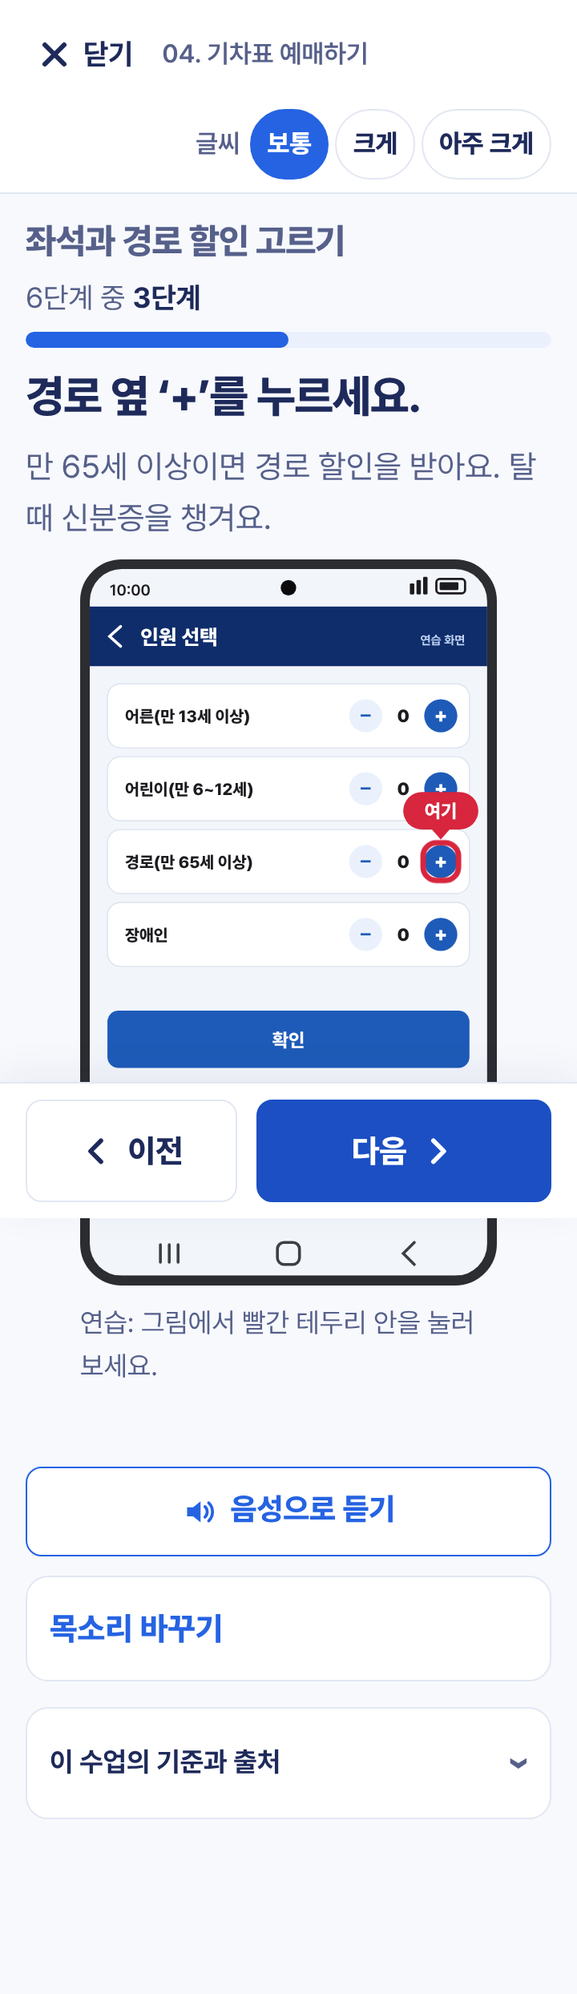
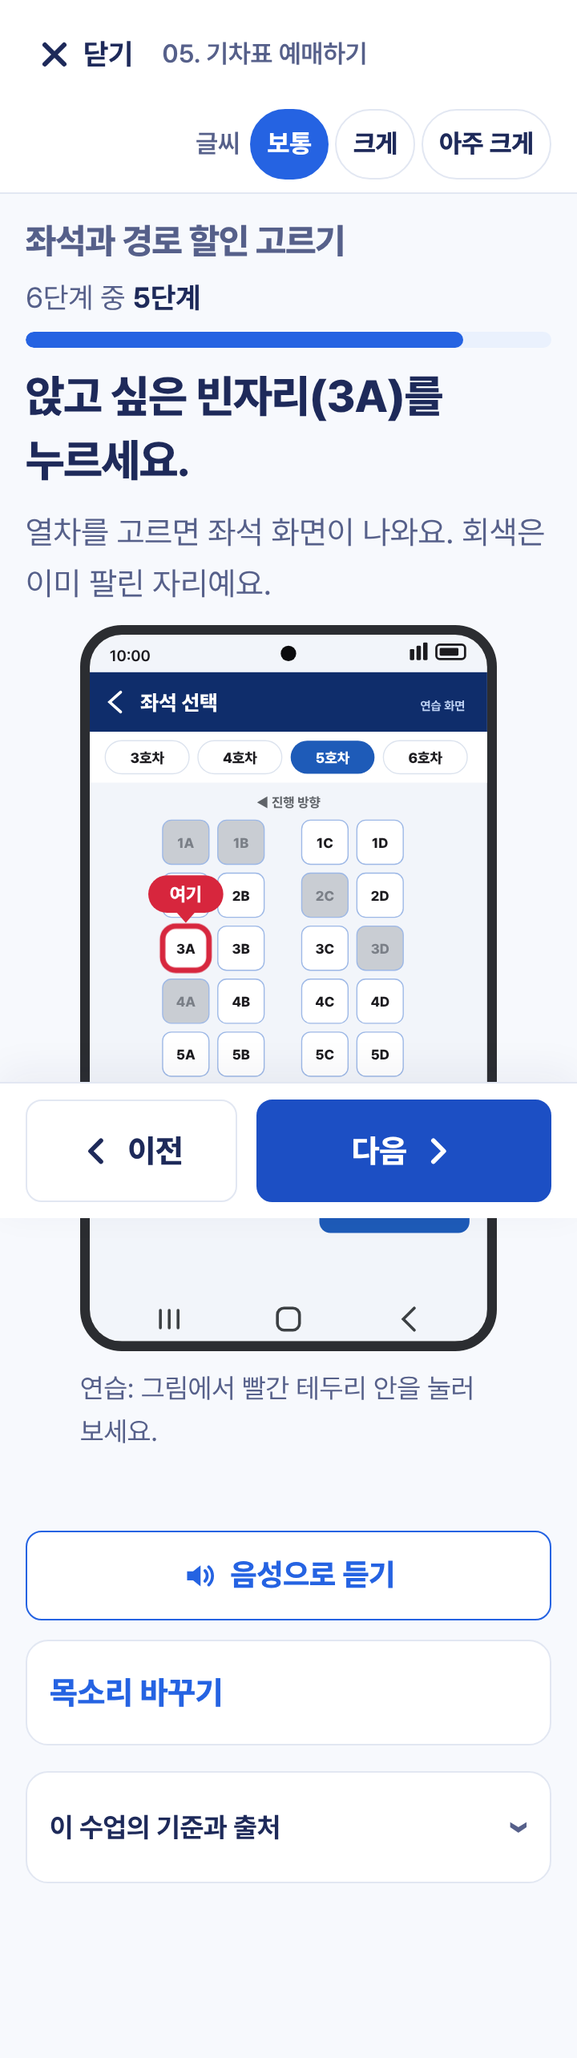
생활 디지털 연습장: 01 필수 앱 내려받기(9개 수업) 추가
- 새 구분 ‘필수 앱 준비’, 기존 목차 번호 1씩 뒤로(진행 기록은 수업 id라 유지)
- 꼭 필요한 앱, Play 스토어 검색·설치·열기, 진짜 앱 확인(개발자·다운로드 수), 카카오톡·카카오 T·코레일톡·공공 앱·은행/인증 앱 설치, 정리·업데이트

Claude-Session: https://claude.ai/code/session_01Q3BcEgi969WHnWAarB2Rma

diff --git a/data/digital/ch-apps.js b/data/digital/ch-apps.js
@@ -1,0 +1,86 @@
+/** [필수 앱 준비] 01 필수 앱 내려받기 — Play 스토어에서 진짜 앱을 찾아 설치하기 */
+import { app as openApp, obj } from '../galaxy/helpers.js?v=20261125.1131';
+import { L, T, S, LK, SRC, list, pop } from './kit.js?v=20261125.1131';
+
+const PLAY_SRC = { label: 'Google Play 고객센터(앱 설치)', url: 'https://support.google.com/googleplay/' };
+
+/** Play 스토어 화면(공통) */
+const PLAY_HOME = list('Google Play', [{ t: '추천 앱' }, { t: '인기 차트' }, { t: '카테고리' }], { searchBar: '앱 및 게임 검색', back: false, tabs: ['게임', '앱', '검색', '도서'], tab: '앱' });
+const RESULT = (name, dev, more = []) => list('검색 결과', [{ t: name, s: `${dev} · ★4.5`, btn: '설치' }, ...more]);
+const DETAIL = (name, dev, btn = '설치', note = '다운로드 1억 회 이상') => list(name, [{ t: name, s: dev, sBlue: true }, { t: '평점', v: '★4.5' }, { t: '다운로드', v: note }, { t: '앱 정보', s: '무엇을 하는 앱인지 읽어 보세요' }], { button: btn });
+
+/** 필수 앱 목록(용도) */
+const ESSENTIAL = list('꼭 필요한 앱', [
+  { t: '카카오톡', s: '가족·친구와 메시지·사진·영상통화' },
+  { t: '카카오 T', s: '택시 부르기' },
+  { t: '코레일톡', s: '기차표 예매' },
+  { t: '지도 앱', s: '길 찾기(Google 지도·네이버 지도·카카오맵)' },
+  { t: '내 은행 앱', s: '잔액 보기·이체(거래하는 은행 것만)' },
+  { t: '인증 앱', s: '본인 확인(통신사 PASS 등)' },
+  { t: '공공 앱', s: '정부24·건강보험 등' },
+]);
+
+/** 앱 하나 설치하는 카드 묶음: Play 스토어 → 검색창 → 이름 적기 → 결과에서 설치 → 열기 */
+const INSTALL = (name, dev, { hint } = {}) => [
+  openApp('Play 스토어'),
+  T('검색창', PLAY_HOME, '위쪽 검색창을 누르세요.'),
+  LK(`‘${name}’${obj(name)} 적으세요.`, { kind: 'keyboard', title: '앱 검색', text: name }, hint ?? '이름을 정확히 적어요. 말로 검색하려면 검색창의 마이크를 눌러요.'),
+  T(`${name} 설치`, RESULT(name, dev), `‘${name}’ 옆 ‘설치’를 누르세요.`, `개발자 이름(${dev})을 확인하세요.`),
+  T(`${name} 열기`, list(name, [{ t: name, s: '설치 완료', btn: '열기' }]), '설치가 끝나면 ‘열기’를 누르세요.', '홈 화면이나 앱스 화면에도 아이콘이 생겨요.'),
+];
+
+export const CHAPTERS_0 = [
+  { num: 1, group: 'apps', title: '필수 앱 내려받기', desc: 'Play 스토어에서 꼭 필요한 앱을 찾아 설치하기', lessons: [
+    L('d00-list', '꼭 필요한 앱 알아보기', ['필수 앱', '어떤 앱', '앱 추천', '꼭 필요한 앱'], [
+      LK('어르신께 꼭 필요한 앱을 살펴보세요.', ESSENTIAL, '한꺼번에 다 깔 필요는 없어요. 필요한 것부터 하나씩 설치해요.'),
+      S('앱은 Play 스토어에서만 내려받으세요.', '🛡', '문자·전화로 알려 준 링크나 파일로 설치하지 마세요.'),
+      S('설치에는 Google 계정과 와이파이가 있으면 편해요.', '📶', '데이터를 아끼려면 와이파이에서 설치해요.'),
+    ], [PLAY_SRC, SRC.kisa]),
+    L('d00-search', 'Play 스토어에서 앱 찾기', ['Play 스토어', '앱 찾기', '앱 검색', '플레이 스토어'], [
+      openApp('Play 스토어', { hint: '흰 바탕에 색 삼각형 아이콘이에요. 홈 화면에 없으면 위로 밀어 앱스 화면에서 찾아요.' }),
+      T('검색창', PLAY_HOME, '위쪽 ‘앱 및 게임 검색’ 칸을 누르세요.'),
+      LK('찾을 앱 이름을 적으세요.', { kind: 'keyboard', title: '앱 검색', text: '카카오톡' }, '예: 카카오톡, 코레일톡, 정부24'),
+      LK('검색 결과에서 앱 이름과 개발자를 보세요.', RESULT('카카오톡', 'Kakao Corp.', [{ t: '카카오톡 테마 모음', s: '광고 앱 · ★3.1' }]), '비슷한 이름의 다른 앱도 나와요. 맨 위 광고는 조심해요.'),
+    ], [PLAY_SRC]),
+    L('d00-install', '앱 설치하고 열기', ['앱 설치', '앱 깔기', '다운로드', '앱 받기'], [
+      T('카카오톡', RESULT('카카오톡', 'Kakao Corp.'), '설치할 앱 이름(카카오톡)을 누르세요.', '앱을 누르면 자세한 정보가 나와요.'),
+      T('설치', DETAIL('카카오톡', 'Kakao Corp.'), '초록 ‘설치’ 버튼을 누르세요.'),
+      LK('설치가 끝날 때까지 기다리세요.', DETAIL('카카오톡', 'Kakao Corp.', '설치 중… 45%'), '와이파이에서 하면 데이터가 들지 않아요.'),
+      T('열기', DETAIL('카카오톡', 'Kakao Corp.', '열기'), '‘열기’를 누르세요.', '처음 열면 전화번호 인증 같은 안내가 나와요.'),
+    ], [PLAY_SRC]),
+    L('d00-real', '진짜 앱인지 확인하기', ['가짜 앱', '진짜 앱', '개발자 확인', '사기 앱'], [
+      LK('앱 이름 아래 개발자(만든 곳) 이름을 보세요.', DETAIL('카카오톡', 'Kakao Corp.'), '은행·기관 앱은 그 은행·기관 이름이 개발자로 적혀 있어요.'),
+      LK('다운로드 수와 평점을 보세요.', DETAIL('카카오톡', 'Kakao Corp.'), '진짜 앱은 보통 다운로드가 아주 많아요.'),
+      S('이름이 비슷해도 개발자가 다르면 설치하지 마세요.', '⚠', '예: ‘○○은행 공식’처럼 보여도 개발자 이름이 이상하면 가짜일 수 있어요.'),
+      S('모르면 가족이나 은행·주민센터에 물어보세요.', '🙋', '전화로 앱을 깔라고 하면 사기일 수 있어요.'),
+    ], [PLAY_SRC, SRC.kisa, SRC.fss]),
+    L('d00-kakao', '카카오톡 설치하기', ['카카오톡 설치', '카톡 깔기'], [
+      ...INSTALL('카카오톡', 'Kakao Corp.'),
+      S('화면 안내에 따라 내 전화번호로 가입하세요.', 'K', '문자로 온 인증번호를 넣어요. 자세한 내용은 갤럭시 수업 13을 보세요.'),
+    ], [PLAY_SRC, { label: '카카오 고객센터', url: 'https://cs.kakao.com/', unverified: true }]),
+    L('d00-move', '카카오 T·코레일톡 설치하기', ['카카오 T 설치', '코레일톡 설치', '택시 앱 설치', '기차 앱 설치'], [
+      ...INSTALL('카카오 T', 'Kakao Mobility', { hint: '‘카카오T’ 또는 ‘카카오택시’로 찾아도 나와요.' }),
+      T('검색창', PLAY_HOME, '이어서 코레일톡을 설치해요. 검색창을 누르세요.'),
+      LK('‘코레일톡’을 적으세요.', { kind: 'keyboard', title: '앱 검색', text: '코레일톡' }, '개발자가 한국철도공사인지 확인해요.'),
+      T('코레일톡 설치', RESULT('코레일톡', '한국철도공사'), '‘코레일톡’ 옆 ‘설치’를 누르세요.'),
+    ], [PLAY_SRC, SRC.korail], { check: '카카오 T·코레일톡의 Play 스토어 개발자 표기는 실제 화면과 대조 필요' }),
+    L('d00-public', '공공 앱 설치하기', ['정부24', '건강보험 앱', '공공 앱', '모바일 신분증 앱'], [
+      LK('어르신이 자주 쓰는 공공 앱을 보세요.', list('공공 앱', [{ t: '정부24', s: '민원 서류 떼기' }, { t: '건강보험 앱', s: '병원 기록·검진 결과' }, { t: '모바일 신분증', s: '휴대폰 신분증(지원 기종)' }]), '필요한 것만 설치해요.'),
+      ...INSTALL('정부24', '정부 기관', { hint: '개발자가 정부 기관인지 확인해요.' }),
+      S('건강보험 앱도 같은 방법으로 찾아 설치하세요.', '🏥', '개발자가 국민건강보험공단인지 확인해요.'),
+    ], [PLAY_SRC, SRC.gov, SRC.nhis], { check: '공공 앱의 정확한 앱 이름과 개발자 표기는 실제 Play 스토어 화면과 대조 필요' }),
+    L('d00-bank', '은행 앱과 인증 앱 설치하기', ['은행 앱 설치', 'PASS', '인증 앱', '뱅킹 앱'], [
+      S('거래하는 은행의 공식 앱만 설치하세요.', '🏦', '통장이나 은행 누리집에 적힌 앱 이름을 확인해요.'),
+      T('검색창', PLAY_HOME, 'Play 스토어 검색창을 누르세요.'),
+      LK('은행 이름을 적으세요.', { kind: 'keyboard', title: '앱 검색', text: '○○은행' }, '예: 내가 쓰는 은행 이름'),
+      LK('개발자가 그 은행인지 꼭 확인하세요.', RESULT('○○은행 뱅킹', '○○은행', [{ t: '○○은행 빠른대출', s: '개인 개발자 · ★2.0' }]), '비슷한 이름의 대출·광고 앱은 설치하지 마세요.'),
+      S('본인 확인 앱(PASS)은 내 통신사 것을 설치하세요.', '🔐', '통신사(SKT·KT·LG U+) 이름이 개발자인지 확인해요.'),
+    ], [PLAY_SRC, SRC.fss, SRC.kfb], { caution: '은행·인증 앱은 개인정보와 돈을 다루는 앱이에요. 반드시 공식 앱인지 확인하고 설치하세요.' }),
+    L('d00-arrange', '설치한 앱 정리하고 업데이트하기', ['앱 정리', '앱 업데이트', '앱 폴더'], [
+      S('자주 쓰는 앱은 홈 화면 첫 페이지에 두세요.', '▦', '앱스 화면에서 앱을 길게 누르고 ‘홈 화면에 추가’를 눌러요(갤럭시 수업 12).'),
+      openApp('Play 스토어'),
+      T('내 앱', list('Google Play', [{ t: '내 앱' }, { t: '추천 앱' }], { back: false, searchBar: '앱 및 게임 검색' }), '‘내 앱’을 누르세요.', '오른쪽 위 내 계정 그림 → ‘앱 및 기기 관리’에서 볼 수도 있어요.'),
+      T('모두 업데이트', list('업데이트', [{ t: '카카오톡', s: '업데이트 가능' }, { t: '코레일톡', s: '업데이트 가능' }], { button: '모두 업데이트' }), '‘모두 업데이트’를 누르세요.', '와이파이에서 하면 좋아요.'),
+    ], [PLAY_SRC], { check: 'Play 스토어의 업데이트 메뉴 위치는 버전에 따라 달라 실제 화면 확인 필요' }),
+  ] },
+];

diff --git a/data/digital/ch01-07.js b/data/digital/ch01-07.js
@@ -1,6 +1,6 @@
 /** [가게와 식당] 01~03, [교통과 이동] 04~07 */
-import { app as openApp } from '../galaxy/helpers.js?v=20261125.0951';
-import { L, T, S, LK, SRC, app, list, tiles, pad, sheet, pop, kb, seats, swipe, kiosk, receipt, kioskPay } from './kit.js?v=20261125.0951';
+import { app as openApp } from '../galaxy/helpers.js?v=20261125.1131';
+import { L, T, S, LK, SRC, app, list, tiles, pad, sheet, pop, kb, seats, swipe, kiosk, receipt, kioskPay } from './kit.js?v=20261125.1131';
 
 /* ---------- 01 키오스크 ---------- */
 const K_HOME = app('주문하기', { hero: '어서 오세요! 화면을 눌러 주문하세요', heroColor: '#2563E2', buttons: ['매장에서 먹기', '포장하기'] });
@@ -78,7 +78,7 @@ const STOP = list('정류장 · 시청앞', [{ t: '402번', s: '3분 뒤 도착 
 const SUBWAY = list('지하철 길 찾기', [{ t: '출발', v: '시청' }, { t: '도착', v: '강남' }, { t: '빠른 길', s: '32분 · 환승 1번(교대역)' }, { t: '막차 시간', v: '23:52' }], { button: '경로 보기' });
 
 export const CHAPTERS_1 = [
-  { num: 1, group: 'shop', title: '키오스크로 음식 주문하기', desc: '패스트푸드점·분식집 주문 기계', lessons: [
+  { num: 2, group: 'shop', title: '키오스크로 음식 주문하기', desc: '패스트푸드점·분식집 주문 기계', lessons: [
     L('d01-start', '처음 화면에서 매장·포장 고르기', ['키오스크', '무인 주문', '햄버거 주문'], [
       LK('키오스크 첫 화면을 보세요.', K_HOME, '큰 화면에 ‘매장에서 먹기’와 ‘포장하기’가 있어요. 천천히 눌러도 괜찮아요.'),
       T('매장에서 먹기', K_HOME, '가게에서 먹으려면 ‘매장에서 먹기’를 누르세요.', '가져가려면 ‘포장하기’를 눌러요.'),
@@ -121,7 +121,7 @@ export const CHAPTERS_1 = [
       ...KIOSK_PAY('6,800원', '124'),
     ], [SRC.nia], { caution: '실제로 돈이 나가는 일이에요. 먼저 연습 화면으로 끝까지 해 보세요.' }),
   ] },
-  { num: 2, group: 'shop', title: '카페 주문과 테이블 QR 주문', desc: '카페 키오스크, 식탁의 QR코드 주문', lessons: [
+  { num: 3, group: 'shop', title: '카페 주문과 테이블 QR 주문', desc: '카페 키오스크, 식탁의 QR코드 주문', lessons: [
     L('d02-cafe', '카페 키오스크로 음료 주문하기', ['카페 주문', '커피 주문'], [
       T('아메리카노', C_MENU(), '마실 음료(아메리카노)를 누르세요.'),
       T('담기', C_OPT, '‘담기’를 누르세요.', '옵션은 다음 수업에서 바꿔 봐요.'),
@@ -155,7 +155,7 @@ export const CHAPTERS_1 = [
       ...QR_PAY('7,000원'),
     ]),
   ] },
-  { num: 3, group: 'shop', title: '무인 계산대와 셀프 서비스', desc: '마트 셀프 계산대, 무인 가게', lessons: [
+  { num: 4, group: 'shop', title: '무인 계산대와 셀프 서비스', desc: '마트 셀프 계산대, 무인 가게', lessons: [
     L('d03-scan', '바코드 찍어 물건 담기', ['셀프 계산대', '바코드', '무인 계산', '무인 매장'], [
       LK('셀프 계산대를 살펴보세요.', SC_HOME, '위는 화면, 가운데 빨간 불빛이 바코드 찍는 곳, 왼쪽이 봉투 놓는 곳이에요.'),
       T('상품 바코드', SC_HOME, '물건에서 줄무늬 바코드를 찾아 누르세요.', '바코드는 보통 상자 옆면이나 바닥에 있어요.'),
@@ -185,7 +185,7 @@ export const CHAPTERS_1 = [
       S('직원이 올 때까지 기다리세요.', '🙋', '계산대 위 불빛이 깜빡이면 직원이 와요.'),
     ]),
   ] },
-  { num: 4, group: 'move', title: '기차표 예매하기', desc: '코레일톡 앱으로 기차표 예매(연습 화면)', lessons: [
+  { num: 5, group: 'move', title: '기차표 예매하기', desc: '코레일톡 앱으로 기차표 예매(연습 화면)', lessons: [
     L('d04-search', '출발역·도착역과 날짜 고르기', ['기차표', 'KTX', '열차 예매', '기차 예매', '코레일', '코레일톡'], [
       openApp('코레일톡', { hint: '코레일톡은 한국철도공사의 기차표 예매 앱이에요. 없으면 Play 스토어에서 ‘코레일톡’을 찾아 설치해요.' }),
       T('출발역', KR('home'), '‘출발’ 아래 역 이름(서울)을 누르세요.'),
@@ -224,7 +224,7 @@ export const CHAPTERS_1 = [
       T('반환하기', pop('승차권 반환', '반환 수수료를 확인했어요.', ['닫기', '반환하기']), '‘반환하기’를 누르세요.', '누르기 전에 수수료를 확인하세요.'),
     ], [SRC.korail], KR_INFO),
   ] },
-  { num: 5, group: 'move', title: '고속·시외버스 예매하기', desc: '버스 예매 앱과 터미널 무인 발권기', lessons: [
+  { num: 6, group: 'move', title: '고속·시외버스 예매하기', desc: '버스 예매 앱과 터미널 무인 발권기', lessons: [
     L('d05-search', '터미널과 날짜 고르기', ['고속버스', '시외버스', '버스 예매'], [
       T('출발 터미널', BUS_HOME, '‘출발 터미널’을 누르세요.'),
       T('도착 터미널', BUS_HOME, '‘도착 터미널’을 누르세요.'),
@@ -252,7 +252,7 @@ export const CHAPTERS_1 = [
       T('12월 5일 10:00 대전복합 취소하기', list('예매 내역', [{ t: '12월 5일 10:00 대전복합', s: '4A · 15,200원', btn: '취소하기' }]), '취소할 표 옆 ‘취소하기’를 누르세요.', '출발 시간에 가까우면 수수료가 있어요.'),
     ], [SRC.kobus, SRC.txbus]),
   ] },
-  { num: 6, group: 'move', title: '택시 부르기', desc: '카카오 T로 택시 부르기(연습 화면)', lessons: [
+  { num: 7, group: 'move', title: '택시 부르기', desc: '카카오 T로 택시 부르기(연습 화면)', lessons: [
     L('d06-where', '출발지와 목적지 넣기', ['택시', '택시 부르기', '카카오택시', '카카오 T', '택시 앱'], [
       openApp('카카오 T', { hint: '카카오택시는 ‘카카오 T’ 앱에서 불러요. 없으면 Play 스토어에서 ‘카카오 T’를 찾아 설치해요.' }),
       T('택시', KT('home'), '‘택시’를 누르세요.'),
@@ -284,7 +284,7 @@ export const CHAPTERS_1 = [
       S('콜택시 전화번호를 연락처에 저장해 두세요.', '☎', '앱이 어려우면 전화로 불러도 돼요.'),
     ], [KAKAO_T_SRC], KT_INFO),
   ] },
-  { num: 7, group: 'move', title: '버스·지하철 정보 보기', desc: '도착 정보, 길 찾기, 교통카드 잔액', lessons: [
+  { num: 8, group: 'move', title: '버스·지하철 정보 보기', desc: '도착 정보, 길 찾기, 교통카드 잔액', lessons: [
     L('d07-arrive', '버스 도착 시간 보기', ['버스 도착', '정류장', '버스 언제 와'], [
       T('검색창', STOP, '위쪽 검색 칸을 누르세요.'),
       S('정류장 이름이나 버스 번호를 적으세요.', '⌨', '예: 시청앞, 402'),

diff --git a/data/digital/ch08-14.js b/data/digital/ch08-14.js
@@ -1,5 +1,5 @@
 /** [병원과 건강] 08~10, [은행과 돈] 11~14 */
-import { L, T, S, LK, SRC, app, list, tiles, pad, sheet, pop, kb, kiosk, kioskPay } from './kit.js?v=20261125.0951';
+import { L, T, S, LK, SRC, app, list, tiles, pad, sheet, pop, kb, kiosk, kioskPay } from './kit.js?v=20261125.1131';
 
 const MONEY = '실제로 돈이 오가는 일이에요. 먼저 연습 화면으로 끝까지 해 보세요. 연습 화면에서는 돈이 나가지 않아요.';
 
@@ -32,7 +32,7 @@ const PAYAPP = app('간편결제(연습)', { hero: '결제 바코드', heroName:
 const FAKE_SMS = { kind: 'chat', title: '010-0000-9999', bubbles: [{ from: 'you', text: '[국외발신] 엄마 나 폰 고장나서 이 번호로 연락해' }, { from: 'you', text: '급하게 돈 좀 보내줘' }] };
 
 export const CHAPTERS_2 = [
-  { num: 8, group: 'health', title: '병원 예약과 접수', desc: '병원 예약 앱, 병원 무인 접수기', lessons: [
+  { num: 9, group: 'health', title: '병원 예약과 접수', desc: '병원 예약 앱, 병원 무인 접수기', lessons: [
     L('d08-find', '가까운 병원 찾기', ['병원 찾기', '진료 시간', '근처 병원'], [
       T('검색창', H_FIND, '위쪽 검색 칸을 누르세요.'),
       S('진료과나 병원 이름을 적으세요.', '⌨', '예: 내과, 정형외과'),
@@ -62,7 +62,7 @@ export const CHAPTERS_2 = [
       T('처방전 출력', H_PAY, '약국에 갈 처방전은 ‘처방전 출력’을 누르세요.'),
     ], [SRC.hira]),
   ] },
-  { num: 9, group: 'health', title: '약과 건강 관리', desc: '복약 알림, 처방전, 건강 기록', lessons: [
+  { num: 10, group: 'health', title: '약과 건강 관리', desc: '복약 알림, 처방전, 건강 기록', lessons: [
     L('d09-alarm', '약 먹을 시간 알림 맞추기', ['복약 알림', '약 알림', '약 먹을 시간'], [
       T('추가', PILL, '오른쪽 아래 ‘+’를 누르세요.'),
       S('약 이름을 적으세요.', '💊', '예: 혈압약'),
@@ -91,7 +91,7 @@ export const CHAPTERS_2 = [
       S('급하거나 많이 아프면 병원에 직접 가거나 119에 전화하세요.', '🚑', '비대면 진료는 가벼운 경우에만 써요.'),
     ], [SRC.hira]),
   ] },
-  { num: 10, group: 'health', title: '건강보험과 의료 정보', desc: '공공 건강보험 앱의 공통 기능', lessons: [
+  { num: 11, group: 'health', title: '건강보험과 의료 정보', desc: '공공 건강보험 앱의 공통 기능', lessons: [
     L('d10-login', '간편 인증으로 로그인하기', ['건강보험 로그인', '간편 인증'], [
       T('간편 인증 로그인', NH_HOME, '‘간편 인증 로그인’을 누르세요.'),
       T('통신사 인증', sheet('인증 방법', ['통신사 인증', '금융 인증서', '모바일 신분증']), '쓰는 인증 방법(통신사 인증)을 누르세요.'),
@@ -111,7 +111,7 @@ export const CHAPTERS_2 = [
       S('발급된 서류를 저장하거나 보내세요.', '📄', '휴대폰 ‘내 파일’에 저장돼요.'),
     ], [SRC.nhis]),
   ] },
-  { num: 11, group: 'money', title: '모바일 뱅킹 시작하기', desc: '은행 앱 첫 설정(연습 화면)', lessons: [
+  { num: 12, group: 'money', title: '모바일 뱅킹 시작하기', desc: '은행 앱 첫 설정(연습 화면)', lessons: [
     L('d11-what', '은행 앱으로 할 수 있는 일', ['은행 앱', '모바일 뱅킹'], [
       LK('은행 앱 첫 화면을 보세요.', BANK, '잔액 보기, 돈 보내기(이체), 거래 내역을 볼 수 있어요.'),
       S('은행 앱은 은행 공식 앱만 설치하세요.', '🏦', '문자로 온 링크로 설치하지 마세요.'),
@@ -134,7 +134,7 @@ export const CHAPTERS_2 = [
       S('공공장소에서는 은행 앱을 열어 두지 마세요.', '🔒', '휴대폰 화면 잠금도 꼭 해 두세요.'),
     ], [SRC.kfb]),
   ] },
-  { num: 12, group: 'money', title: '계좌 이체 연습하기', desc: '돈 보내기를 연습 화면에서', lessons: [
+  { num: 13, group: 'money', title: '계좌 이체 연습하기', desc: '돈 보내기를 연습 화면에서', lessons: [
     L('d12-account', '받는 사람 계좌 넣기', ['계좌이체', '송금', '돈 보내기'], [
       T('이체', BANK, '‘이체’를 누르세요.'),
       T('받는 은행', TRANSFER, '‘받는 은행’을 누르세요.'),
@@ -167,7 +167,7 @@ export const CHAPTERS_2 = [
       S('사기 피해라면 112에 바로 신고하세요.', '🚨', '계좌 지급 정지를 요청할 수 있어요.'),
     ], [SRC.fss, SRC.scam]),
   ] },
-  { num: 13, group: 'money', title: '간편결제와 QR 결제', desc: '휴대폰으로 가게에서 결제하기', lessons: [
+  { num: 14, group: 'money', title: '간편결제와 QR 결제', desc: '휴대폰으로 가게에서 결제하기', lessons: [
     L('d13-what', '간편결제가 무엇인지 알아보기', ['간편결제', '페이', '휴대폰 결제'], [
       S('간편결제는 휴대폰에 카드를 넣어 두고 결제하는 방법이에요.', '📱', '삼성 월렛, 은행·카드사 앱 등 여러 가지가 있어요.'),
       S('결제할 때 지문이나 비밀번호로 확인해요.', '🔐', '남에게 휴대폰을 맡기지 마세요.'),
@@ -187,7 +187,7 @@ export const CHAPTERS_2 = [
       LK('결제한 곳과 금액을 보세요.', list('결제 내역', [{ t: '12/03 □□분식', v: '8,000원' }, { t: '12/02 편의점', v: '4,700원' }]), '모르는 결제가 있으면 카드사에 전화하세요.'),
     ], [SRC.fss]),
   ] },
-  { num: 14, group: 'money', title: '금융 사기 막기', desc: '보이스피싱·스미싱·가짜 앱', lessons: [
+  { num: 15, group: 'money', title: '금융 사기 막기', desc: '보이스피싱·스미싱·가짜 앱', lessons: [
     L('d14-voice', '보이스피싱 전화 알아차리기', ['보이스피싱', '사기 전화', '검찰 사칭'], [
       S('검찰·경찰·은행은 전화로 돈을 옮기라고 하지 않아요.', '☎', '“계좌가 범죄에 쓰였다”는 말은 사기예요.'),
       S('이상한 전화는 바로 끊으세요.', '✂', '상대가 겁을 주어도 끊어도 괜찮아요.'),

diff --git a/data/digital/ch15-20.js b/data/digital/ch15-20.js
@@ -1,5 +1,5 @@
 /** [관공서와 생활 서비스] 15~17, [쇼핑과 여가] 18~20 */
-import { L, T, S, LK, SRC, app, list, tiles, pad, sheet, pop, kb, seats } from './kit.js?v=20261125.0951';
+import { L, T, S, LK, SRC, app, list, tiles, pad, sheet, pop, kb, seats } from './kit.js?v=20261125.1131';
 
 const MONEY = '실제로 돈이 오가는 일이에요. 먼저 연습 화면으로 끝까지 해 보세요. 연습 화면에서는 돈이 나가지 않아요.';
 
@@ -38,7 +38,7 @@ const MSEAT = seats('좌석 선택 · 3관', { cols: ['A', 'B', 'C', 'D', 'E'], 
 const LIB = list('도서관(연습)', [{ t: '할머니의 정원', s: '대출 가능 · 2층 문학', btn: '예약' }, { t: '건강한 밥상', s: '대출 중 · 반납 예정 12/10', btn: '예약' }], { searchBar: '책 이름 검색', back: false });
 
 export const CHAPTERS_3 = [
-  { num: 15, group: 'public', title: '민원 서류 떼기', desc: '정부 민원 서비스와 무인 민원발급기', lessons: [
+  { num: 16, group: 'public', title: '민원 서류 떼기', desc: '정부 민원 서비스와 무인 민원발급기', lessons: [
     L('d15-online', '휴대폰으로 민원 서류 신청하기', ['주민등록등본', '민원 서류', '등본 떼기'], [
       T('주민등록표 등본', GOV, '필요한 서류(주민등록표 등본)를 누르세요.'),
       T('신청하기', GOV_APPLY, '‘신청하기’를 누르세요.', '누르기 전에 발급 형태를 확인하세요. 로그인(간편 인증)이 필요해요.'),
@@ -59,7 +59,7 @@ export const CHAPTERS_3 = [
       S('보낼 곳에 파일을 첨부해 보내세요.', '📎', '개인정보가 담긴 서류는 꼭 필요한 곳에만 보내세요.'),
     ], [SRC.gov]),
   ] },
-  { num: 16, group: 'public', title: '공과금과 생활 요금 내기', desc: '전기·가스·수도 요금, 관리비', lessons: [
+  { num: 17, group: 'public', title: '공과금과 생활 요금 내기', desc: '전기·가스·수도 요금, 관리비', lessons: [
     L('d16-bill', '모바일 고지서 확인하기', ['고지서', '공과금', '전기 요금'], [
       LK('이번 달 요금을 확인하세요.', BILL, '납부 기한을 꼭 확인해요.'),
       T('전기 요금', BILL, '자세히 볼 요금(전기 요금)을 누르세요.'),
@@ -78,7 +78,7 @@ export const CHAPTERS_3 = [
       LK('항목별 금액을 보세요.', list('관리비', [{ t: '일반 관리비', v: '62,000원' }, { t: '전기', v: '38,000원' }, { t: '난방', v: '82,000원' }], { top: '12월 합계 182,000원' }), '궁금한 항목은 관리사무소에 물어보세요.'),
     ], [SRC.giro]),
   ] },
-  { num: 17, group: 'public', title: '복지 혜택 찾아보기', desc: '어르신이 받을 수 있는 혜택 찾기', lessons: [
+  { num: 18, group: 'public', title: '복지 혜택 찾아보기', desc: '어르신이 받을 수 있는 혜택 찾기', lessons: [
     L('d17-find', '나에게 맞는 복지 서비스 찾기', ['복지', '혜택', '지원금'], [
       LK('내 나이와 사는 곳이 맞는지 보세요.', WELFARE),
       T('맞춤 서비스 찾기', WELFARE, '‘맞춤 서비스 찾기’를 누르세요.'),
@@ -98,7 +98,7 @@ export const CHAPTERS_3 = [
       S('복지 상담은 보건복지상담센터 129로도 할 수 있어요.', '☎', '국번 없이 129예요.'),
     ], [SRC.bokjiro]),
   ] },
-  { num: 18, group: 'leisure', title: '배달 앱으로 음식 시키기', desc: '배달 앱의 공통 순서', lessons: [
+  { num: 19, group: 'leisure', title: '배달 앱으로 음식 시키기', desc: '배달 앱의 공통 순서', lessons: [
     L('d18-address', '배달 받을 주소 넣기', ['배달', '배달 주소', '주소 등록'], [
       T('배달 주소', list('주소 설정', [{ t: '배달 주소', v: '입력' }, { t: '현재 위치로 찾기' }]), '‘배달 주소’를 누르세요.'),
       S('도로명 주소와 동·호수를 적으세요.', '🏠', '공동현관 비밀번호는 꼭 필요할 때만 적어요.'),
@@ -126,7 +126,7 @@ export const CHAPTERS_3 = [
       T('가게에 전화', app('주문 현황', { hero: '배달 중 · 10분 뒤 도착', heroColor: '#007A4B', buttons: ['가게에 전화', '고객센터 문의'] }), '늦거나 잘못 오면 ‘가게에 전화’를 누르세요.'),
     ], [SRC.kca]),
   ] },
-  { num: 19, group: 'leisure', title: '온라인 쇼핑하기', desc: '물건 찾기부터 반품까지', lessons: [
+  { num: 20, group: 'leisure', title: '온라인 쇼핑하기', desc: '물건 찾기부터 반품까지', lessons: [
     L('d19-search', '물건 검색하고 비교하기', ['쇼핑', '인터넷 쇼핑', '물건 찾기'], [
       T('검색창', SHOP, '위쪽 검색 칸을 누르세요.'),
       S('살 물건 이름을 적으세요.', '⌨', '예: 보온 물병'),
@@ -159,7 +159,7 @@ export const CHAPTERS_3 = [
       S('피해가 생기면 한국소비자원(1372)에 상담하세요.', '☎', '국번 없이 1372예요.'),
     ], [SRC.kca, SRC.ftc]),
   ] },
-  { num: 20, group: 'leisure', title: '영화·공연 예매와 여가', desc: '예매 앱, 무인 발권기, 도서관', lessons: [
+  { num: 21, group: 'leisure', title: '영화·공연 예매와 여가', desc: '예매 앱, 무인 발권기, 도서관', lessons: [
     L('d20-movie', '영화 시간과 좌석 예매하기', ['영화 예매', '영화표'], [
       T('영화', MOVIE, '‘영화’를 눌러 볼 영화를 고르세요.'),
       T('시간', MOVIE, '‘시간’을 눌러 상영 시간을 고르세요.'),

diff --git a/assets/app.js b/assets/app.js
@@ -12,14 +12,14 @@
  *
  * 진행 상황과 글씨 크기는 이 기기의 localStorage 에만 저장한다(서버로 보내지 않음).
  */
-import { CATEGORIES } from '../data/categories.js?v=20261125.0951';
-import { CHAPTERS, GROUPS, findLesson as findGalaxyLesson, allLessons } from '../data/galaxy/index.js?v=20261125.0951';
-import * as DIGITAL from '../data/digital/index.js?v=20261125.0951';
-import { BASE } from '../data/galaxy/helpers.js?v=20261125.0951';
-import { renderScreen } from './screens.js?v=20261125.0951';
-import { appInfo, appIconStandalone } from './apps.js?v=20261125.0951';
-import { speechText, stepWords, pickVoice, koreanVoices, voiceLabel, SPEECH } from './speech.js?v=20261125.0951';
-import { VERSION } from './version.js?v=20261125.0951';
+import { CATEGORIES } from '../data/categories.js?v=20261125.1131';
+import { CHAPTERS, GROUPS, findLesson as findGalaxyLesson, allLessons } from '../data/galaxy/index.js?v=20261125.1131';
+import * as DIGITAL from '../data/digital/index.js?v=20261125.1131';
+import { BASE } from '../data/galaxy/helpers.js?v=20261125.1131';
+import { renderScreen } from './screens.js?v=20261125.1131';
+import { appInfo, appIconStandalone } from './apps.js?v=20261125.1131';
+import { speechText, stepWords, pickVoice, koreanVoices, voiceLabel, SPEECH } from './speech.js?v=20261125.1131';
+import { VERSION } from './version.js?v=20261125.1131';
 
 const STORE_KEY = 'dojeon365.galaxy.v1';
 // 목차 구분별 분야 색(디자인 시스템): 기초 파랑, 생활 초록, 응용 보라, 고급 및 문제 해결 남색

diff --git a/data/digital/index.js b/data/digital/index.js
@@ -7,9 +7,10 @@
  * - 세부 수업의 카드(cards)는 갤럭시 수업과 같은 형식이다(ch01-07.js, ch08-14.js, ch15-20.js). cards 가 없으면 ‘준비 중’으로 보인다.
  */
 
-import { CHAPTERS_1 } from './ch01-07.js?v=20261125.0951';
-import { CHAPTERS_2 } from './ch08-14.js?v=20261125.0951';
-import { CHAPTERS_3 } from './ch15-20.js?v=20261125.0951';
+import { CHAPTERS_0 } from './ch-apps.js?v=20261125.1131';
+import { CHAPTERS_1 } from './ch01-07.js?v=20261125.1131';
+import { CHAPTERS_2 } from './ch08-14.js?v=20261125.1131';
+import { CHAPTERS_3 } from './ch15-20.js?v=20261125.1131';
 
 export const COURSE = {
   id: 'digital',
@@ -19,6 +20,7 @@ export const COURSE = {
 };
 
 export const GROUPS = [
+  { id: 'apps', title: '필수 앱 준비', cat: 'cat-2' },
   { id: 'shop', title: '가게와 식당', cat: 'cat-1' },
   { id: 'move', title: '교통과 이동', cat: 'cat-3' },
   { id: 'health', title: '병원과 건강', cat: 'cat-2' },
@@ -27,7 +29,7 @@ export const GROUPS = [
   { id: 'leisure', title: '쇼핑과 여가', cat: 'cat-3' },
 ];
 
-export const CHAPTERS = [...CHAPTERS_1, ...CHAPTERS_2, ...CHAPTERS_3].sort((a, b) => a.num - b.num);
+export const CHAPTERS = [...CHAPTERS_0, ...CHAPTERS_1, ...CHAPTERS_2, ...CHAPTERS_3].sort((a, b) => a.num - b.num);
 
 export function allLessons() {
   return CHAPTERS.flatMap((chapter) => chapter.lessons.map((lesson) => ({ lesson, chapter })));

diff --git a/data/galaxy/ch14-22.js b/data/galaxy/ch14-22.js
@@ -1,5 +1,5 @@
 /** [응용] 14~18, [고급 및 문제 해결] 19~22 */
-import { lesson, app, tap, menu, path, toggle, self, look, swipe, hold, back, goHome, openQuick, M, SRC, MENUS, SIDE, HOME, QUICK, PRACTICE_ONLY } from './helpers.js?v=20261125.0951';
+import { lesson, app, tap, menu, path, toggle, self, look, swipe, hold, back, goHome, openQuick, M, SRC, MENUS, SIDE, HOME, QUICK, PRACTICE_ONLY } from './helpers.js?v=20261125.1131';
 
 const WALLET = { kind: 'app', title: '월렛', back: false, actions: ['추가'], hero: '결제 카드 ●●●● 1234', heroName: '결제 카드', heroColor: '#283593', lines: ['교통 카드 · 멤버십 · 모바일 신분증'] };
 const WALLET_ADD = { kind: 'dialog', style: 'sheet', title: '추가', buttons: ['결제 카드', '교통 카드', '모바일 신분증', '멤버십', '티켓·쿠폰'] };

diff --git a/index.html b/index.html
@@ -11,9 +11,9 @@
 <link rel="icon" href="assets/favicon-48.png" sizes="48x48" type="image/png">
 <link rel="apple-touch-icon" href="assets/apple-touch-icon.png">
 <link rel="manifest" href="site.webmanifest">
-<link rel="stylesheet" href="assets/fonts/pretendard/pretendardvariable-dynamic-subset.css?v=20261125.0951">
-<link rel="stylesheet" href="assets/app.css?v=20261125.0951">
-<script type="module" src="assets/app.js?v=20261125.0951"></script>
+<link rel="stylesheet" href="assets/fonts/pretendard/pretendardvariable-dynamic-subset.css?v=20261125.1131">
+<link rel="stylesheet" href="assets/app.css?v=20261125.1131">
+<script type="module" src="assets/app.js?v=20261125.1131"></script>
 </head>
 <body>
 <a class="sr-only" href="#main">본문 바로가기</a>

diff --git a/data/galaxy/ch07-13.js b/data/galaxy/ch07-13.js
@@ -1,5 +1,5 @@
 /** [생활] 07~13 */
-import { lesson, app, tap, menu, path, toggle, self, look, swipe, hold, back, goHome, openQuick, openNoti, M, SRC, MENUS, SIDE, HOME, APPS, QUICK, NOTI, PRACTICE_ONLY } from './helpers.js?v=20261125.0951';
+import { lesson, app, tap, menu, path, toggle, self, look, swipe, hold, back, goHome, openQuick, openNoti, M, SRC, MENUS, SIDE, HOME, APPS, QUICK, NOTI, PRACTICE_ONLY } from './helpers.js?v=20261125.1131';
 
 const Q = (on) => ({ ...QUICK, on });
 

diff --git a/data/galaxy/index.js b/data/galaxy/index.js
@@ -1,7 +1,7 @@
 /** 갤럭시 휴대폰 사용방법: 22개 목차 */
-import { BASIC } from './ch01-06.js?v=20261125.0951';
-import { LIFE } from './ch07-13.js?v=20261125.0951';
-import { APPLY, ADV } from './ch14-22.js?v=20261125.0951';
+import { BASIC } from './ch01-06.js?v=20261125.1131';
+import { LIFE } from './ch07-13.js?v=20261125.1131';
+import { APPLY, ADV } from './ch14-22.js?v=20261125.1131';
 
 export const GROUPS = [
   { id: 'basic', title: '기초' },

diff --git a/data/galaxy/ch01-06.js b/data/galaxy/ch01-06.js
@@ -1,5 +1,5 @@
 /** [기초] 01~06 */
-import { lesson, app, tap, menu, path, toggle, self, look, swipe, hold, back, goHome, M, SRC, MENUS, SIDE, HOME, APPS, PHONE_TABS, PRACTICE_ONLY } from './helpers.js?v=20261125.0951';
+import { lesson, app, tap, menu, path, toggle, self, look, swipe, hold, back, goHome, M, SRC, MENUS, SIDE, HOME, APPS, PHONE_TABS, PRACTICE_ONLY } from './helpers.js?v=20261125.1131';
 
 const POWER = { kind: 'dialog', style: 'power' };
 
